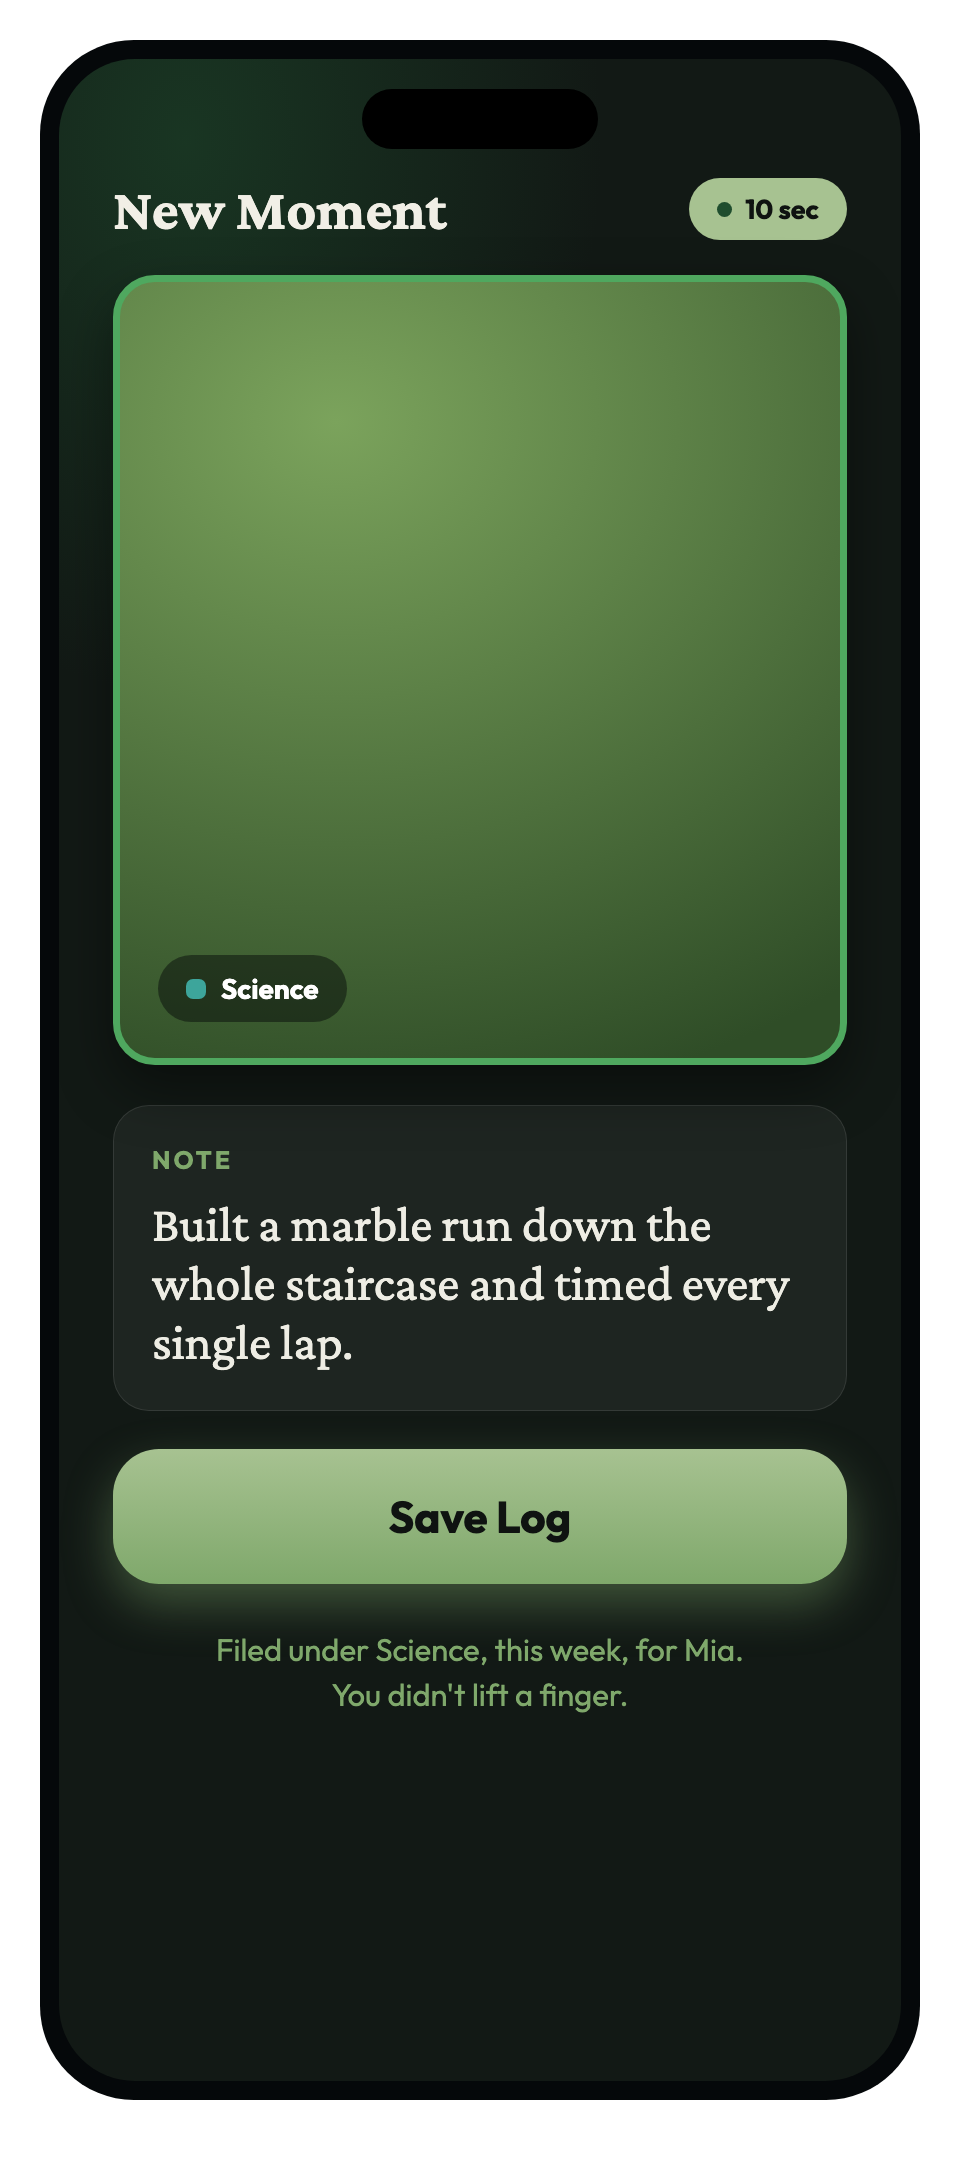
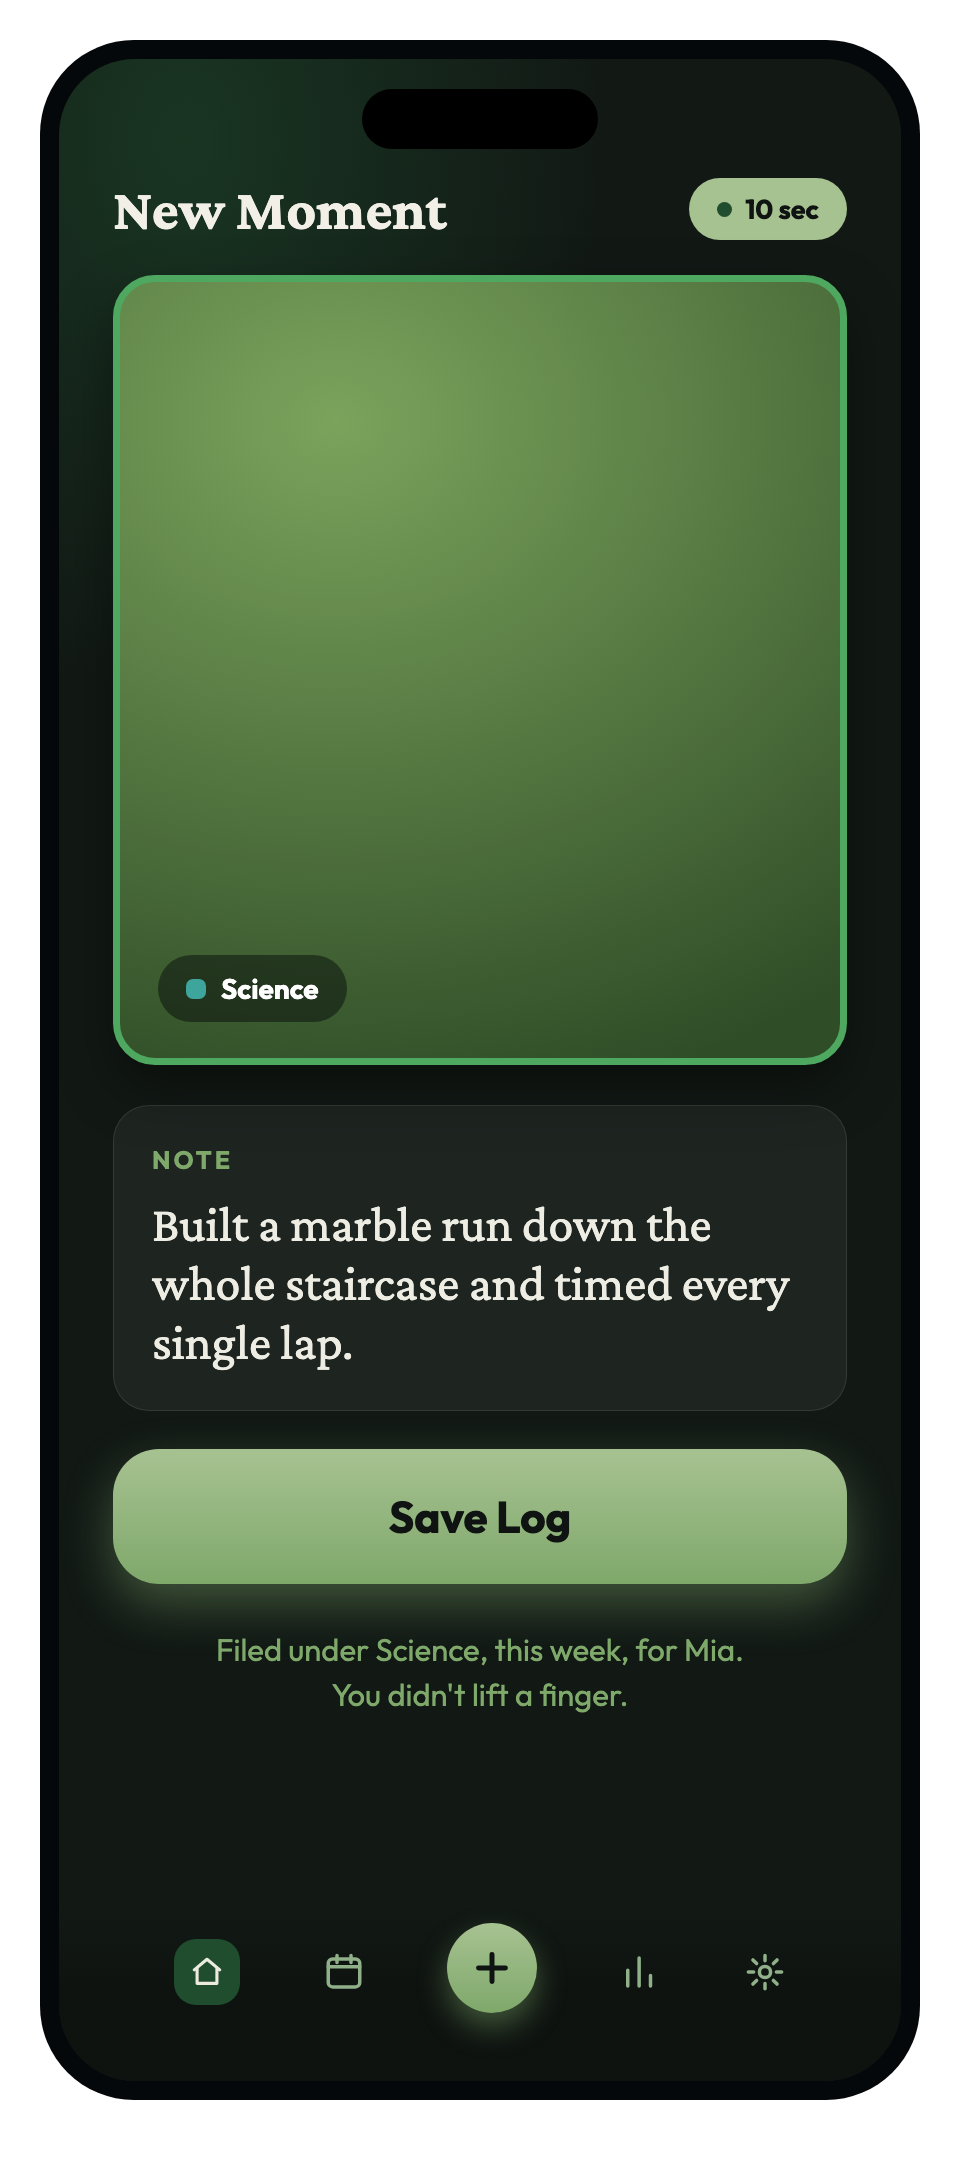
feat(landing): complete the phone screens + bigger how-it-works visuals
- The 3 product phones now have the app's bottom tab bar (home, calendar,
  +, recap, settings) and fill the whole screen, no more blank bottom.
- The week-report phone is rebuilt: old subjects swapped for the growth
  domains, each with its own icon (Nature/Numeracy/Curiosity/Communication/
  Creativity), a fuller photo grid, and the cream tab bar.
- Section 3 (how it works) onboarding visuals are noticeably larger.

diff --git a/app/_components/OnboardingVisuals.tsx b/app/_components/OnboardingVisuals.tsx
@@ -10,7 +10,7 @@ export function OnboardingVisual({
   variant: "capture" | "sort" | "report" | "together";
 }) {
   return (
-    <div className="relative w-full max-w-[360px] aspect-square flex items-center justify-center">
+    <div className="relative w-full max-w-[460px] aspect-square flex items-center justify-center">
       <div className="absolute inset-4 rounded-full bg-gradient-to-br from-[#A4C9A8]/25 via-[#94BC8E]/12 to-transparent blur-3xl -z-10" />
       {variant === "capture" && <Capture />}
       {variant === "sort" && <Sort />}
@@ -24,14 +24,14 @@ export function OnboardingVisual({
 function Capture() {
   return (
     <div className="relative">
-      <div className="w-48 rounded-3xl bg-sprout-cream/[0.08] backdrop-blur-xl border border-sprout-cream/15 p-4 shadow-[0_30px_70px_-20px_rgba(0,0,0,0.6)] -rotate-3">
-        <div className="h-32 rounded-2xl bg-gradient-to-b from-[#A4C9A8]/55 to-[#76A77A]/30 flex items-center justify-center mb-3">
-          <ImageIcon className="w-9 h-9 text-sprout-cream/85" strokeWidth={1.75} />
+      <div className="w-60 rounded-3xl bg-sprout-cream/[0.08] backdrop-blur-xl border border-sprout-cream/15 p-5 shadow-[0_30px_70px_-20px_rgba(0,0,0,0.6)] -rotate-3">
+        <div className="h-40 rounded-2xl bg-gradient-to-b from-[#A4C9A8]/55 to-[#76A77A]/30 flex items-center justify-center mb-4">
+          <ImageIcon className="w-12 h-12 text-sprout-cream/85" strokeWidth={1.75} />
         </div>
         <div className="h-2.5 rounded-full bg-sprout-cream/45 w-[82%] mb-2" />
         <div className="h-2.5 rounded-full bg-sprout-cream/25 w-[55%]" />
       </div>
-      <div className="absolute -bottom-3 -right-3 w-14 h-14 rounded-full bg-gradient-to-b from-[#A4C9A8] to-[#76A77A] flex items-center justify-center shadow-[0_10px_24px_-6px_rgba(127,168,107,0.7)] border-2 border-[#1B3722]/15 p-3.5">
+      <div className="absolute -bottom-3 -right-3 w-16 h-16 rounded-full bg-gradient-to-b from-[#A4C9A8] to-[#76A77A] flex items-center justify-center shadow-[0_10px_24px_-6px_rgba(127,168,107,0.7)] border-2 border-[#1B3722]/15 p-4">
         <Camera className="w-full h-full text-[#1B3722]" strokeWidth={2.25} />
       </div>
     </div>
@@ -46,11 +46,11 @@ function Sort() {
     { c: "#E0795B", w: "74%" },
   ];
   return (
-    <div className="w-64 rounded-3xl bg-sprout-cream/[0.08] backdrop-blur-xl border border-sprout-cream/15 p-5 shadow-[0_30px_70px_-20px_rgba(0,0,0,0.6)] space-y-4">
+    <div className="w-72 rounded-3xl bg-sprout-cream/[0.08] backdrop-blur-xl border border-sprout-cream/15 p-6 shadow-[0_30px_70px_-20px_rgba(0,0,0,0.6)] space-y-5">
       {rows.map((r, i) => (
-        <div key={i} className="flex items-center gap-3.5">
-          <span className="w-7 h-7 rounded-full shrink-0" style={{ backgroundColor: r.c }} />
-          <span className="h-4 rounded-full" style={{ width: r.w, backgroundColor: r.c, opacity: 0.85 }} />
+        <div key={i} className="flex items-center gap-4">
+          <span className="w-9 h-9 rounded-full shrink-0" style={{ backgroundColor: r.c }} />
+          <span className="h-5 rounded-full" style={{ width: r.w, backgroundColor: r.c, opacity: 0.85 }} />
         </div>
       ))}
     </div>
@@ -65,7 +65,7 @@ function Report() {
     ["#E0795B", "66%"],
   ];
   return (
-    <div className="w-56 rounded-2xl bg-[#F7F2E7] p-5 shadow-[0_30px_70px_-20px_rgba(0,0,0,0.6)] rotate-3 border border-[#1B3722]/10">
+    <div className="w-64 rounded-2xl bg-[#F7F2E7] p-6 shadow-[0_30px_70px_-20px_rgba(0,0,0,0.6)] rotate-3 border border-[#1B3722]/10">
       <div className="flex items-center justify-between mb-5">
         <div className="h-3 rounded-full bg-[#CBA85A] w-16" />
         <FileText className="w-5 h-5 text-[#CBA85A]" strokeWidth={2.25} />
@@ -85,10 +85,10 @@ function Report() {
 function Together() {
   return (
     <div className="flex items-center -space-x-6">
-      <div className="w-28 h-28 rounded-full bg-gradient-to-b from-[#1F4D2E] to-[#143420] flex items-center justify-center shadow-[0_18px_40px_-12px_rgba(0,0,0,0.6)] border-2 border-sprout-cream/25 p-7">
+      <div className="w-32 h-32 rounded-full bg-gradient-to-b from-[#1F4D2E] to-[#143420] flex items-center justify-center shadow-[0_18px_40px_-12px_rgba(0,0,0,0.6)] border-2 border-sprout-cream/25 p-7">
         <User className="w-full h-full text-sprout-cream" strokeWidth={1.75} />
       </div>
-      <div className="w-28 h-28 rounded-full bg-gradient-to-b from-[#A4C9A8] to-[#76A77A] flex items-center justify-center shadow-[0_18px_40px_-12px_rgba(0,0,0,0.6)] border-2 border-sprout-cream/25 p-7">
+      <div className="w-32 h-32 rounded-full bg-gradient-to-b from-[#A4C9A8] to-[#76A77A] flex items-center justify-center shadow-[0_18px_40px_-12px_rgba(0,0,0,0.6)] border-2 border-sprout-cream/25 p-7">
         <Baby className="w-full h-full text-[#1B3722]" strokeWidth={1.75} />
       </div>
     </div>
